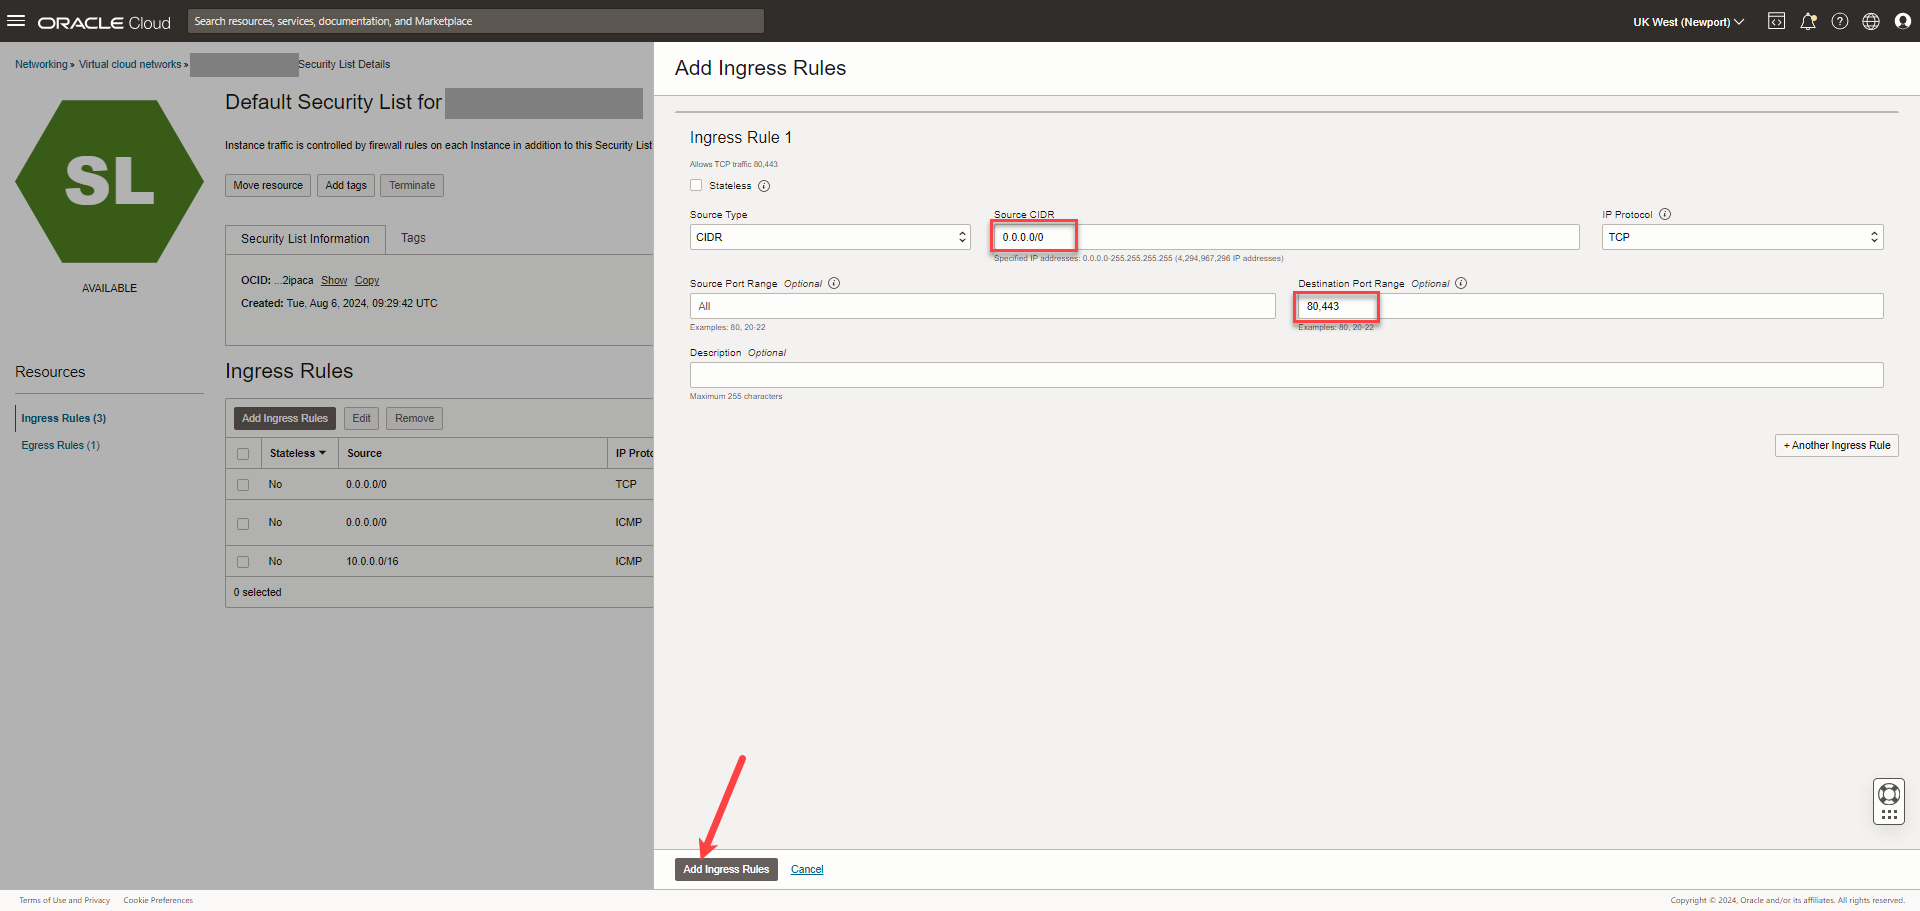
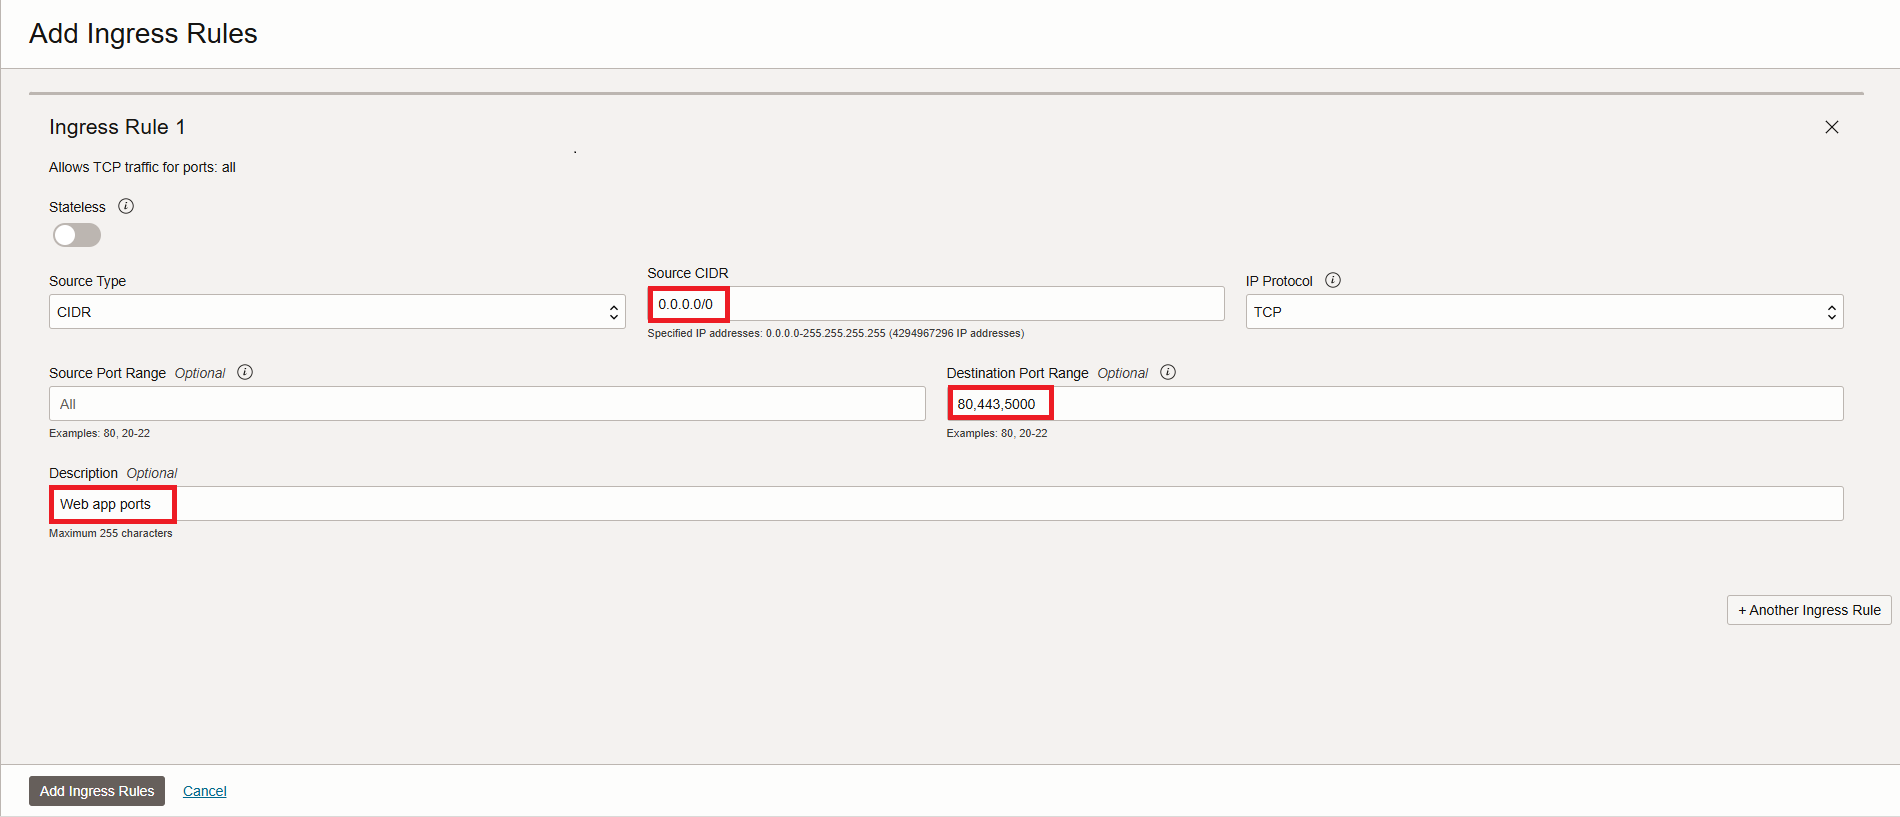
Updated

diff --git a/create-compute/create-compute.md b/create-compute/create-compute.md
@@ -148,7 +148,13 @@ In this lab, you will be guided through the following tasks:
     **Destination Port Range**:
 
     ```bash
-    <copy>80,443</copy>
+    <copy>80,443,5000</copy>
+    ```
+
+    **Description**
+
+    ```bash
+    <copy>Web app ports</copy>
     ```
 
     ![Ingress rules](./images/18-enter-ingess-rules-default-security-list.png "Ingress rules") 
